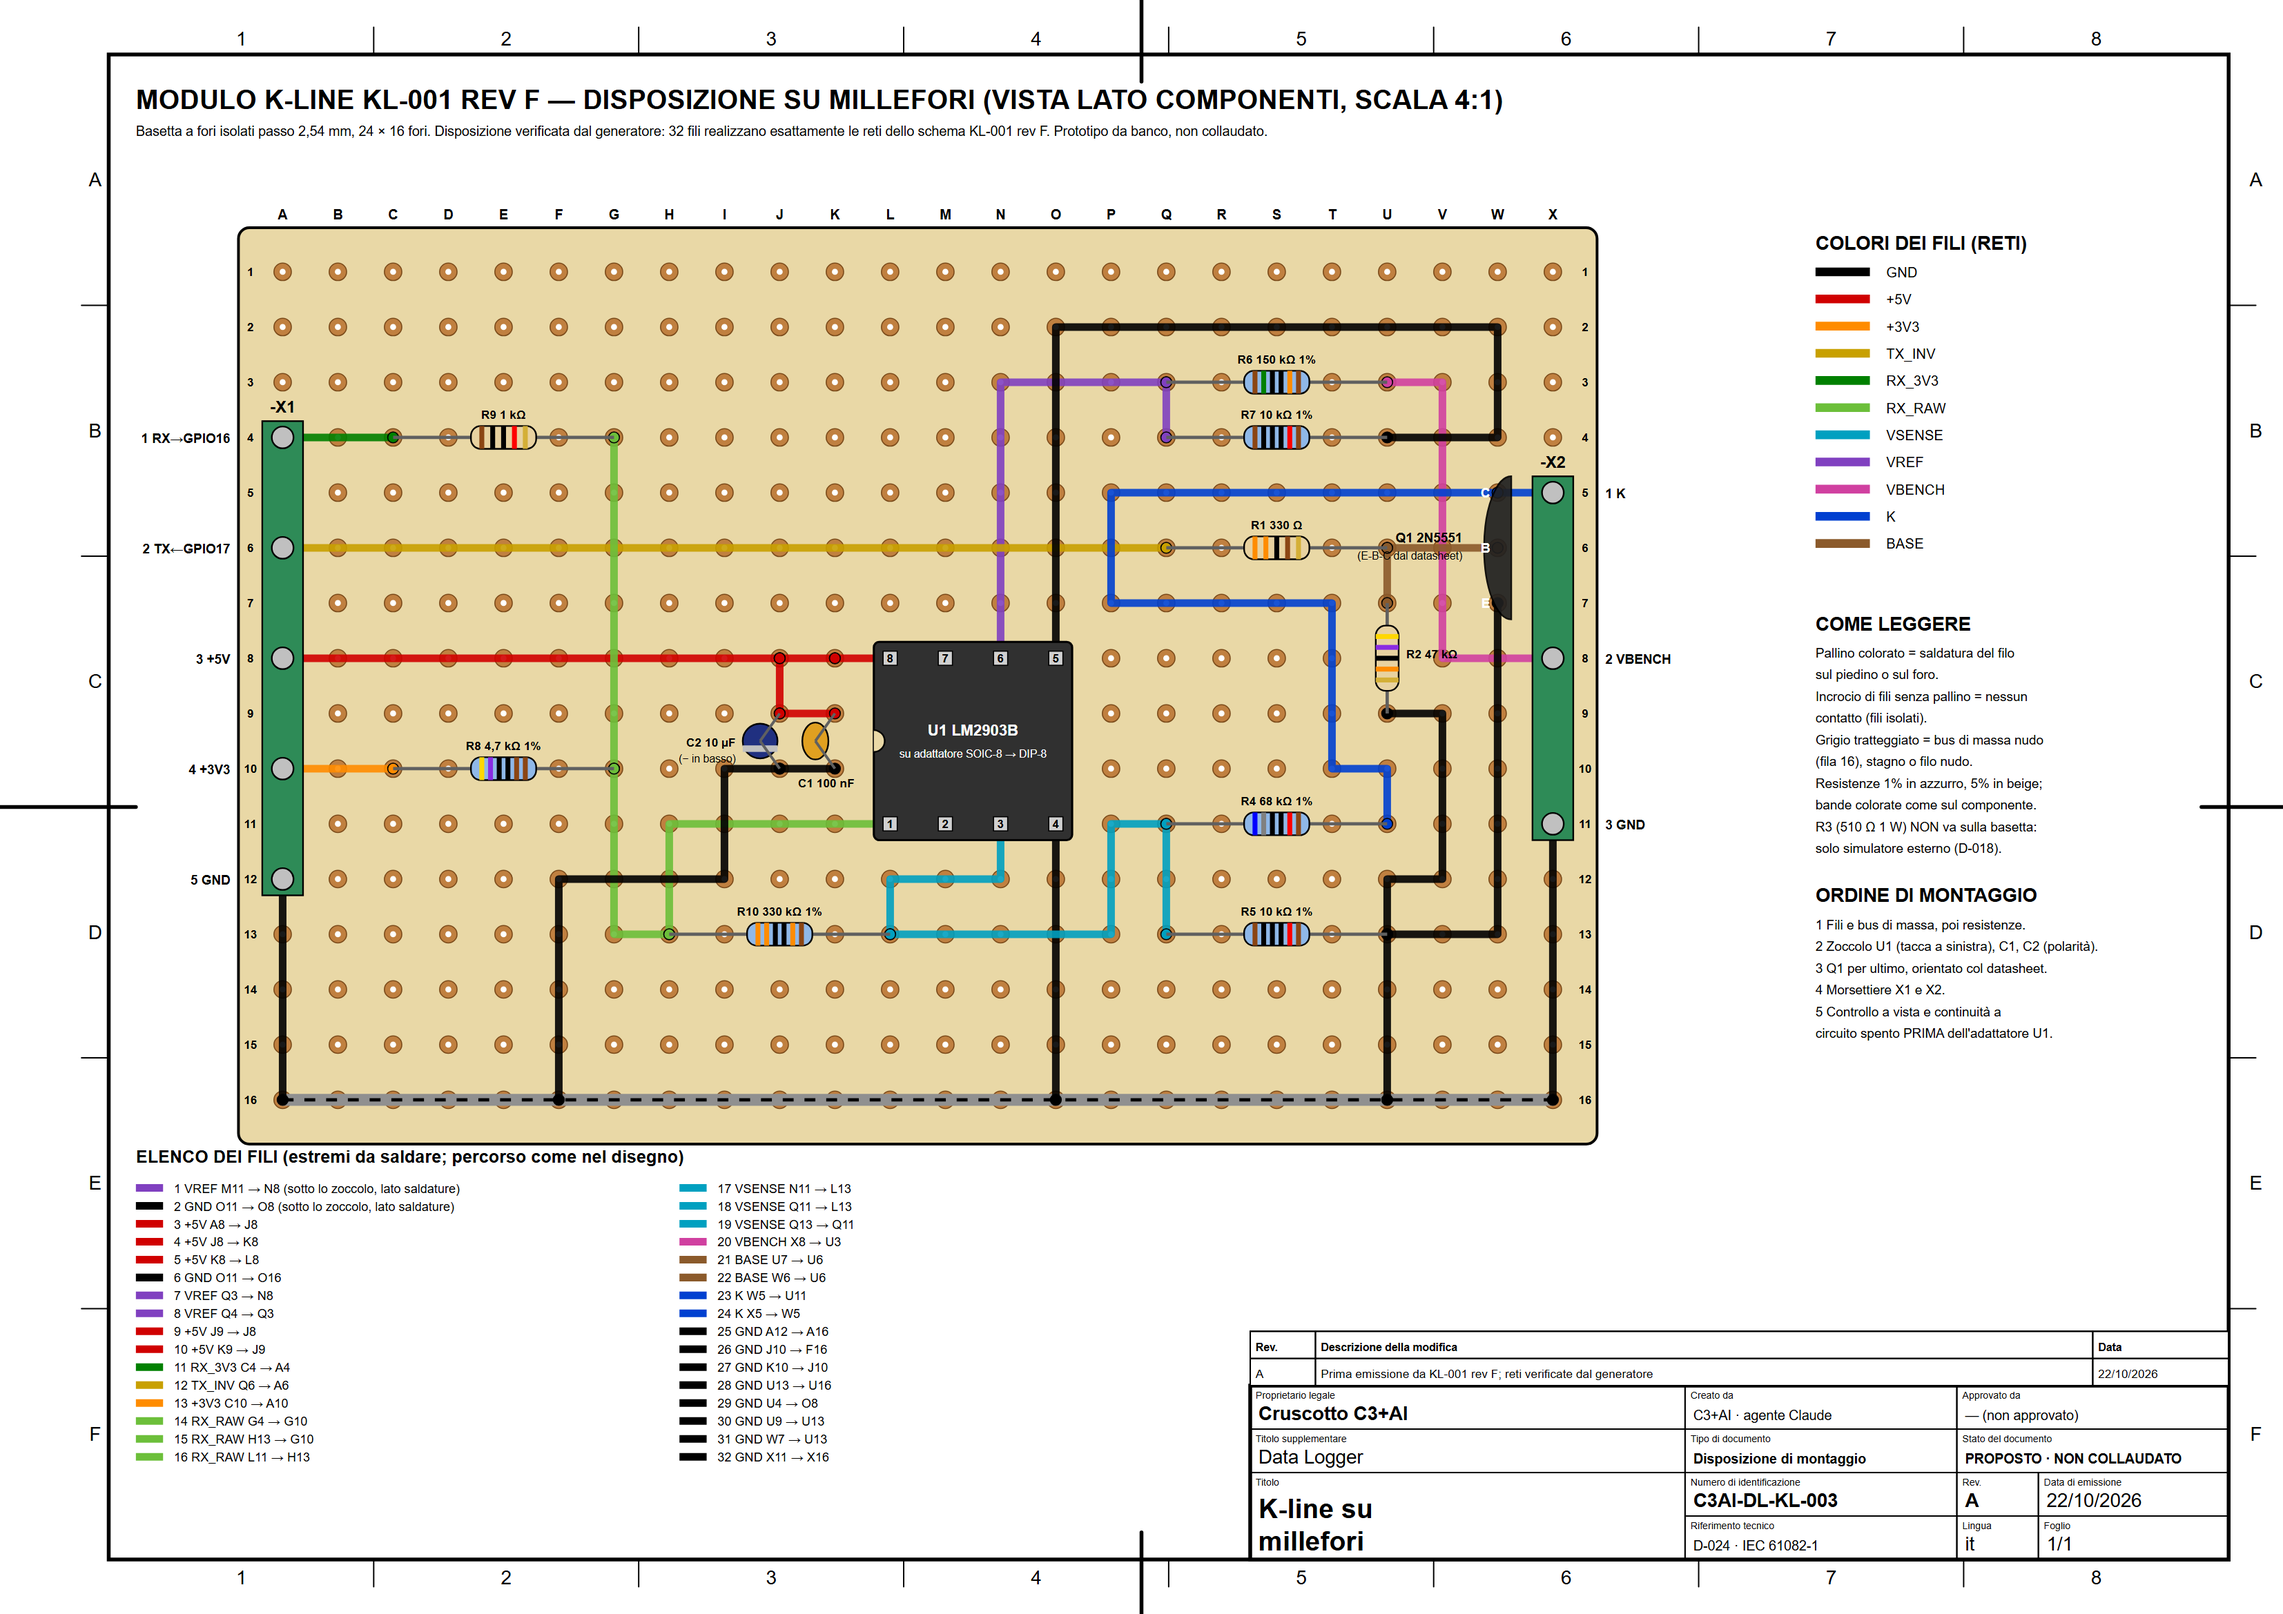
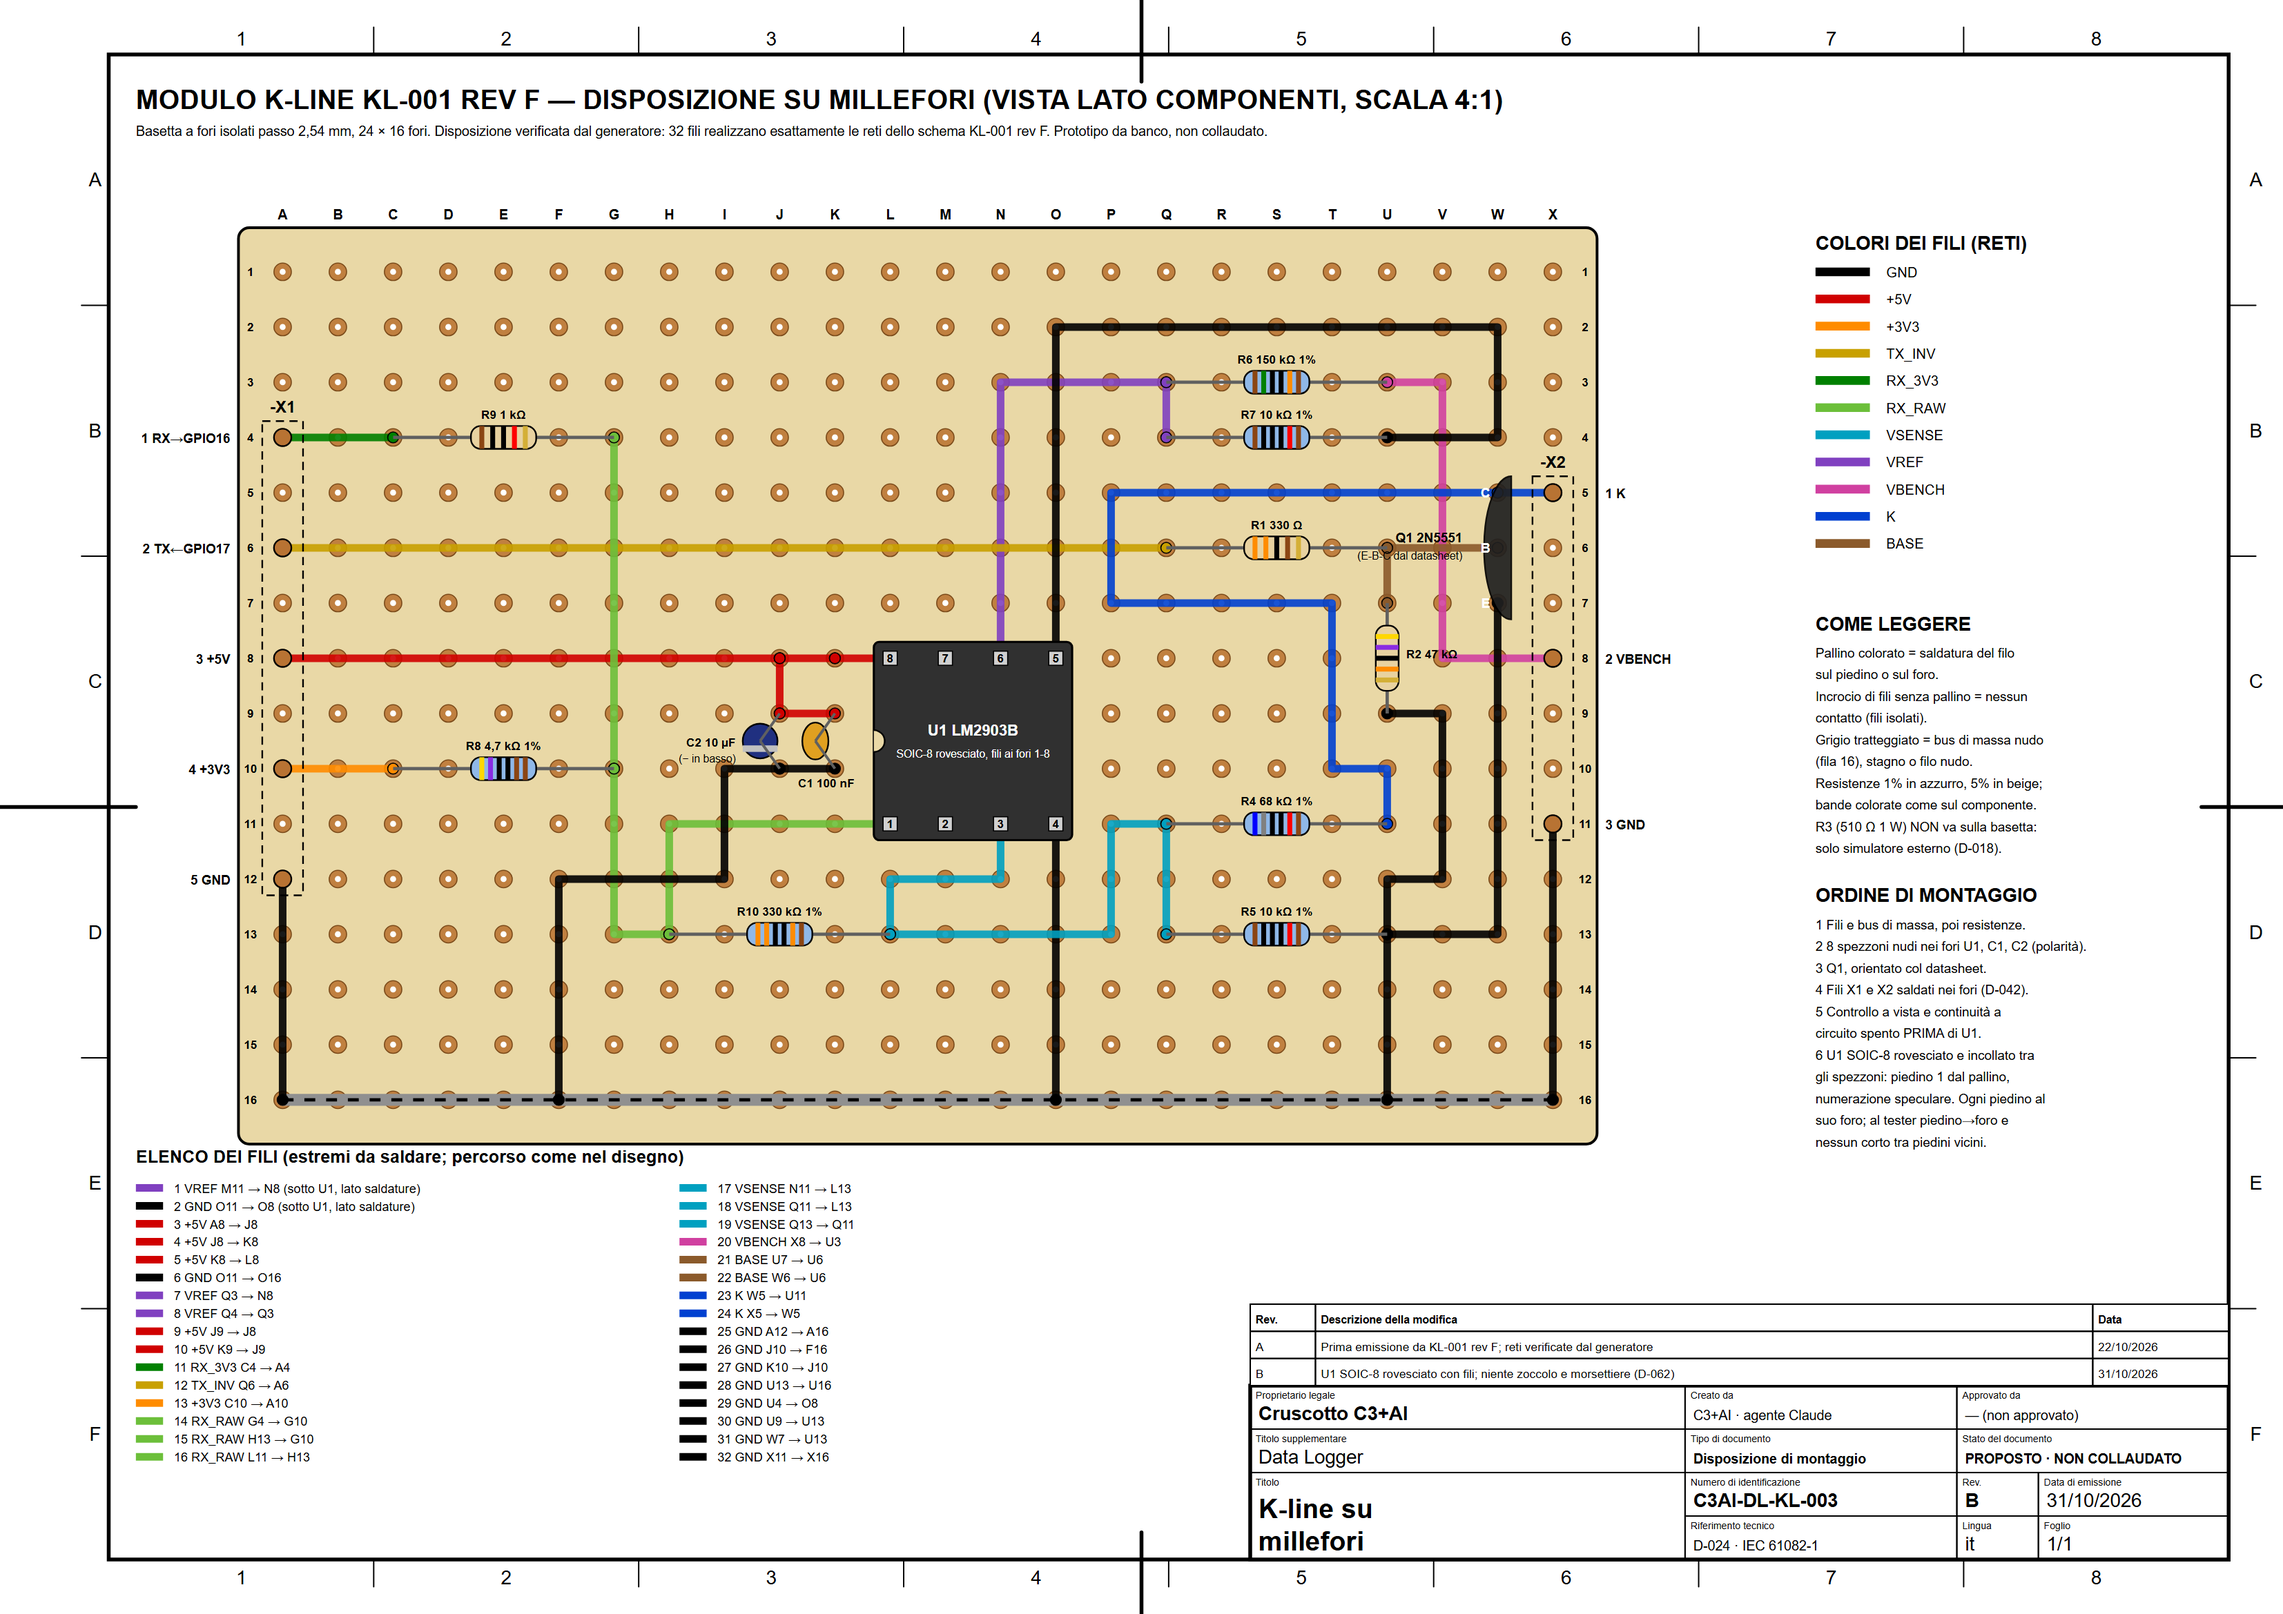
docs: tavola KL-003 rev B, U1 rovesciato con fili e fili nei fori X1/X2

diff --git a/data-logger/docs/kline-autocostruita.md b/data-logger/docs/kline-autocostruita.md
@@ -20,15 +20,15 @@ Non e una piedinatura del veicolo o una scheda automotive certificata.
 ## Distinta per un prototipo da banco
 
 Tutte le resistenze dei partitori a tolleranza 1%; valori da acquistare solo
-se non gia disponibili. Componenti ordinati su Farnell il 22/10/2026 (consegna non
-riscontrata, dettaglio in HW-KLINE-INTERFACE). Prima prova con collegamenti volanti
+se non gia disponibili. Componenti ordinati su Farnell il 22/10/2026 e arrivati il 28/10/2026
+(dettaglio in HW-KLINE-INTERFACE). Prima prova con collegamenti volanti
 sulla millefori, senza zoccolo, adattatore né morsettiere; i fili vanno saldati
 direttamente ai piedini SOIC-8 (passo 1,27 mm) e controllati al tester prima di alimentare.
 
 | Rif. | Quantita | Valore / componente | Nota |
 | --- | --- | --- | --- |
 | Q1 | 1 | 2N5551, NPN TO-92 | Scegliere produttore e verificare E/B/C sul relativo datasheet |
-| U1 | 1 | LM2903B, versione SOIC-8 | Adattatore SOIC-8 → DIP-8; non scambiare con LM2903 senza B |
+| U1 | 1 | LM2903B, versione SOIC-8 | LM2903BYDT (marcatura 2903BY); incollato rovesciato e cablato con fili (KL-003 rev B); non scambiare con LM2903 senza B |
 | R1 | 1 | 330 ohm, 0,25 W, 5% | Base TX |
 | R2 | 1 | 47 kohm, 0,25 W, 5% | Base-emettitore, Q1 spento a GPIO flottante |
 | R3 | 1 | 510 ohm, 1 W, 1% | Solo simulatore esterno da banco; non montare nel modulo |
@@ -40,7 +40,7 @@ direttamente ai piedini SOIC-8 (passo 1,27 mm) e controllati al tester prima di 
 | R10 | 1 | 330 kohm, 0,25 W, 1% | Retroazione OUT1 → IN1+, isteresi (rev E) |
 | C1 | 1 | 100 nF ceramico | Bypass U1, vicino ai pin 8/4 |
 | C2 | 1 | 10 microfarad, 16 V | Positivo su +5 V, negativo a GND |
-| Montaggio | 1 insieme | Adattatore SOIC-8 → DIP-8, zoccolo DIP-8, millefori, morsetti e fili | Saldature e piedinatura da controllare |
+| Montaggio | 1 insieme | Millefori MC01009, filo isolato e nudo, colla per U1 | Niente zoccolo, adattatore né morsettiere (D-042, D-062); saldature e piedinatura da controllare |
 
 Non ordinare in questa fase un altro modulo CAN o un'interfaccia Freematics.
 Il tester esistente consente i controlli statici, non dimostra i tempi UART.
@@ -190,16 +190,17 @@ disegnati e la disposizione su millefori con i collegamenti da componente a comp
   C3AI-DL-EL-004 rev A ([SVG](../../disegni/sorgenti/DL-EL-004_logger-completo-millefori.svg), generatore
   `tools/genera-logger-millefori-illustrato.py`, D-042): K-line, ESP32, RTC + MicroSD su tre basette,
   IMU su un ritaglio, OLED, VAN (solo ricezione) e STOP, fili saldati W1-W31 senza morsetti. Proposta, non collaudata.
-- [Disposizione su millefori](../../disegni/DL-KL-003_kline-millefori.png), C3AI-DL-KL-003 rev A
+- [Disposizione su millefori](../../disegni/DL-KL-003_kline-millefori.png), C3AI-DL-KL-003 rev B
   ([SVG](../../disegni/sorgenti/DL-KL-003_kline-millefori.svg), generatore `tools/genera-kline-millefori.py`):
   basetta 24 × 16 fori passo 2,54 mm, scala 4:1, fili colorati per rete, elenco dei 32
   fili con i fori di partenza e arrivo, ordine di montaggio. Il generatore instrada i
   fili e **verifica che realizzino esattamente le reti della netlist rev F**, senza fori
-  condivisi tra reti, tratti sovrapposti o fili sopra piedini di altre reti.
+  condivisi tra reti, tratti sovrapposti o fili sopra piedini di altre reti. Rev B (31/10/2026): U1 SOIC-8
+  rovesciato su 8 spezzoni nei fori dei piedini, fili saldati nei fori X1/X2, ordine di montaggio aggiornato.
 
 Montaggio di U1 scelto il 31/10/2026 (D-062): il SOIC-8 viene incollato rovesciato al posto dello zoccolo
 e collegato con fili corti ai fori dei piedini 1-8 della tavola; adattatore non usato. A chip rovesciato la
 numerazione appare speculare. I fori e le reti della tavola restano validi.
 
 Stato: componenti arrivati il 28/10/2026, nulla montato o collaudato. Prima prova:
-continuità e assenza di corti a circuito spento, senza LM2903B nell'adattatore.
+continuità e assenza di corti a circuito spento, prima di montare l'LM2903B.

diff --git a/data-logger/docs/distinta-hardware.md b/data-logger/docs/distinta-hardware.md
@@ -22,7 +22,7 @@ chiamato batteria coincide con RTC. Non ricomprare i componenti gia censiti.
 | 1 | Fusibile di ramo da 2 A, se non incluso | Portafusibile gia acquistato (HW-FUSE-HOLDER), modello da riscontrare; verificare valore con cavo e carico |
 | 1 | Pulsante momentaneo normalmente aperto, a 2 contatti | STOP logico, non interruttore di potenza |
 | 1 | 2N5551 NPN TO-92 | K-line, pinout secondo produttore |
-| 1 + 1 + 1 | LM2903B SOIC-8, adattatore SOIC-8 → DIP-8 e zoccolo DIP-8 | Ricevitore K-line del prototipo documentato |
+| 1 | LM2903B SOIC-8 (LM2903BYDT, arrivato) | Ricevitore K-line del prototipo; montato rovesciato con fili, senza adattatore né zoccolo (KL-003 rev B, D-062) |
 | 1 ciascuna | Resistenze 330 ohm e 47 kohm, 0,25 W, 5% | K-line |
 | 1 | Resistenza 510 ohm, 1 W, 1% | Solo simulatore esterno da banco, non montata nel modulo K-line |
 | 1 ciascuna | Resistenze 68 kohm, 150 kohm e 4,7 kohm, 0,25 W, 1% | K-line |
